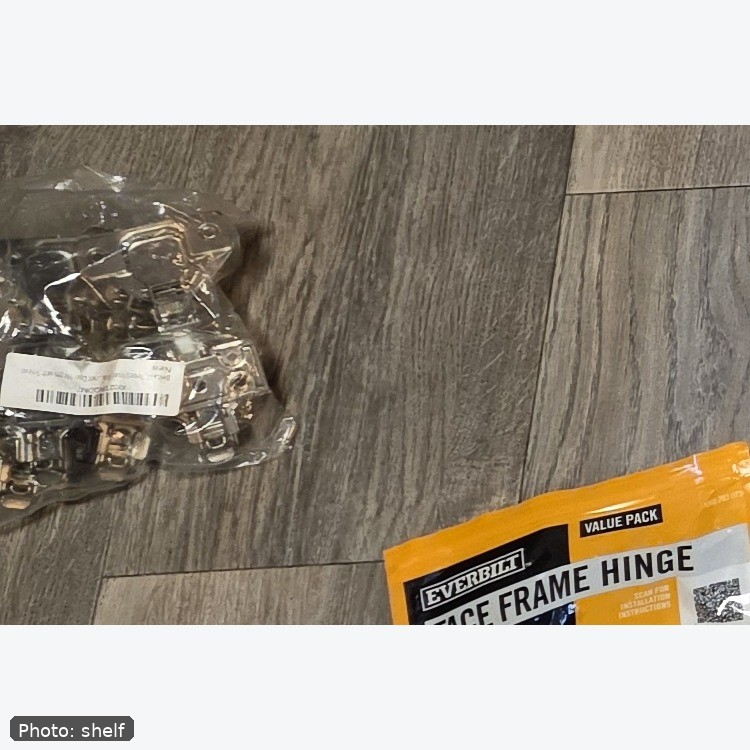
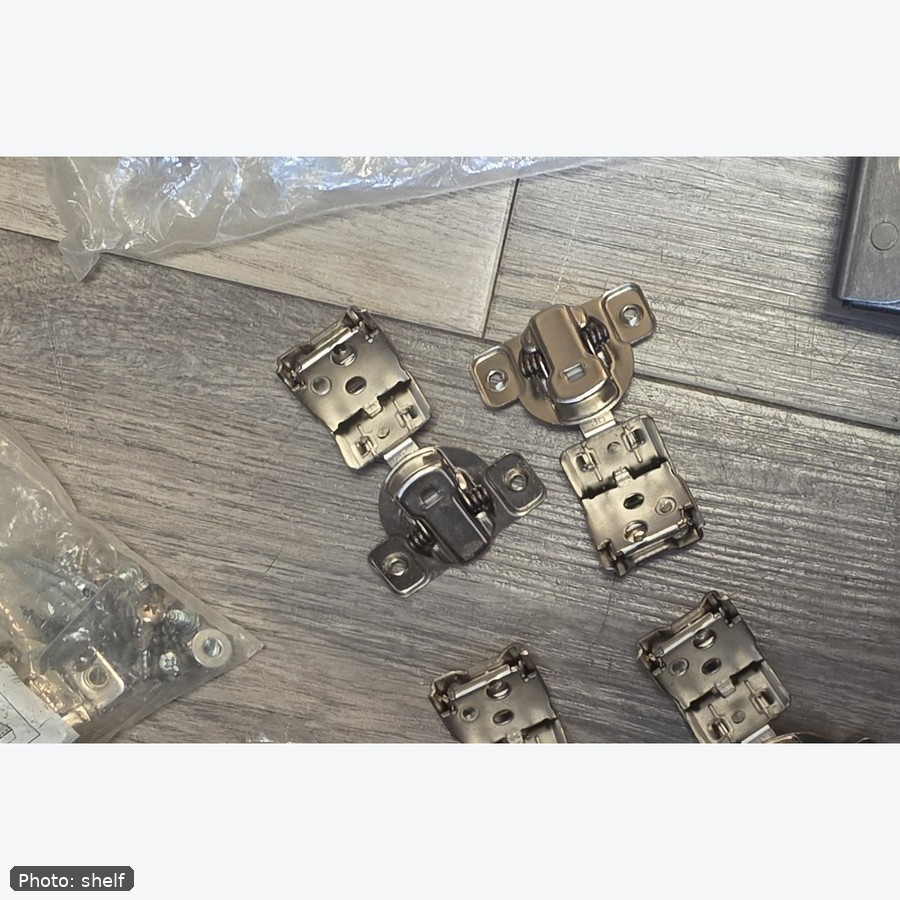
Correct drawer5 seed photos and add two items

diff --git a/src/seed/drawer5.ts b/src/seed/drawer5.ts
@@ -13,7 +13,7 @@ export type Drawer5SeedSpec = {
   photoFile: string
 }
 
-export const DRAWER5_SEED_VERSION = '1'
+export const DRAWER5_SEED_VERSION = '2'
 const DRAWER5_SEED_KEY = 'inventory-drawer5-seed-version'
 
 export const DRAWER5_SEED: Drawer5SeedSpec[] = [
@@ -32,12 +32,23 @@ export const DRAWER5_SEED: Drawer5SeedSpec[] = [
     id: 'drawer5-concealed-cabinet-hinges',
     name: 'Loose silver concealed cabinet hinges',
     description:
-      'Assorted loose nickel/silver European-style concealed cabinet hinges (face-frame style), bagged plus loose pieces of the same type. Counted as individual hinges.',
-    quantity: 16,
+      'Loose nickel/silver European-style concealed cabinet hinges (clip-on cup hinges). Counted individually from close-up; four loose pieces.',
+    quantity: 4,
     cost: 3.5,
     location: 'drawer 5',
     application: 'Cabinetry',
     photoFile: 'drawer5/drawer5-concealed-cabinet-hinges.jpg',
+  },
+  {
+    id: 'drawer5-berta-face-frame-hinges',
+    name: 'Berta Face Frame Cabinet Door Hinges (4-Pack)',
+    description:
+      'Berta 4-piece face frame cabinet door hinges with screws (Amazon label X002TRODM1 / X002TRODMJ). Soft-close European concealed style in clear bag, New.',
+    quantity: 1,
+    cost: 16.88,
+    location: 'drawer 5',
+    application: 'Cabinetry',
+    photoFile: 'drawer5/drawer5-berta-face-frame-hinges.jpg',
   },
   {
     id: 'drawer5-primeline-n6703',
@@ -107,20 +118,20 @@ export const DRAWER5_SEED: Drawer5SeedSpec[] = [
   },
   {
     id: 'drawer5-folding-brackets',
-    name: 'Galvanized folding shelf brackets / lid stays',
+    name: 'Self-Locking Folding Leg Brackets Antique Bronze (2)',
     description:
-      'Articulated galvanized steel folding brackets (lid stay / folding shelf support style) with multiple mounting holes.',
+      'Self-locking foldable leg brackets, antique bronze steel, 2.68\" x 2.48\" x 2.13\" (L×W×H), 2.5 mm / 0.098\" thick. Spring latch locks at 90°. Pair with screws; matches instruction sheet specs (MDLUU/Skelang-class).',
     quantity: 2,
-    cost: 8.0,
+    cost: 4.5,
     location: 'drawer 5',
     application: 'Hardware',
     photoFile: 'drawer5/drawer5-folding-brackets.jpg',
   },
   {
     id: 'drawer5-brass-lid-stay',
-    name: 'Brass articulated lid stay',
+    name: 'Antique bronze telescopic lid stay',
     description:
-      'Single brass/gold-tone articulated lid stay or folding support hinge for a chest lid or cabinet door.',
+      'Single antique-bronze telescopic / sliding lid stay support arm with mounting brackets at both ends. For a chest lid or cabinet door (finish is antique bronze, not bright brass).',
     quantity: 1,
     cost: 7.0,
     location: 'drawer 5',
@@ -217,9 +228,9 @@ export const DRAWER5_SEED: Drawer5SeedSpec[] = [
   },
   {
     id: 'drawer5-ikea-besta-hinges',
-    name: 'IKEA BESTÅ soft-close/push-open hinge kit',
+    name: 'IKEA BESTÅ soft closing/push-open hinge (802.612.58)',
     description:
-      'IKEA BESTÅ soft closing / push-open hinge hardware, article 802.612.58, with instruction sheet and accompanying dark metal mounting brackets in small cardboard box.',
+      'IKEA BESTÅ soft closing / push-open hinge, article 802.612.58 (2x BESTÅ pack). Clear bag with official IKEA instruction sheet confirmed on close-up. Street price matches IKEA US $15.00 / 2-pack.',
     quantity: 1,
     cost: 15.0,
     location: 'drawer 5',
@@ -230,12 +241,23 @@ export const DRAWER5_SEED: Drawer5SeedSpec[] = [
     id: 'drawer5-edge-banding',
     name: 'Wood veneer edge banding roll',
     description:
-      'Small roll of thin wood-veneer / edge-banding tape (light natural tone), taped closed. Approx 2–3 in diameter remnant.',
+      'Small roll of thin wood-veneer edge-banding tape (light natural / birch tone), secured with clear tape. Remnant coil ~2–3 in diameter; confirmed wood veneer (not foil) from close-up.',
     quantity: 1,
     cost: 3.0,
     location: 'drawer 5',
     application: 'Hardware',
     photoFile: 'drawer5/drawer5-edge-banding.jpg',
+  },
+  {
+    id: 'drawer5-shoe-heel-taps',
+    name: 'Shoe heel taps 40 pcs (with glue)',
+    description:
+      'Amazon bag labeled 40 pcs shoe heel taps / plates (X002RT1GQZ), MADE IN CHINA. Black crescent rubber/plastic heel repair pads with small adhesive tubes included. Not hinge hardware.',
+    quantity: 1,
+    cost: 9.0,
+    location: 'drawer 5',
+    application: 'Hardware',
+    photoFile: 'drawer5/drawer5-shoe-heel-taps.jpg',
   },
 ]
 
